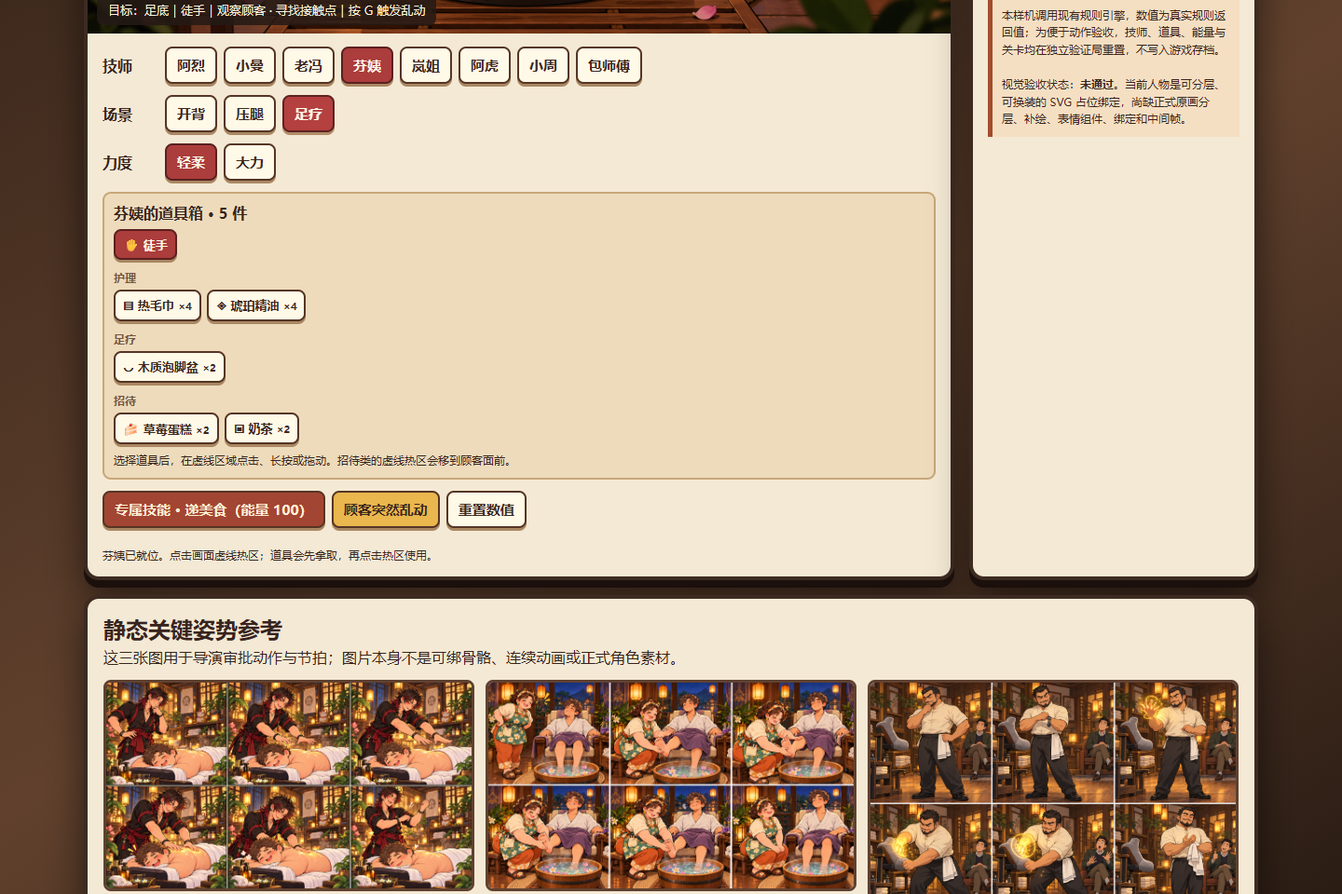
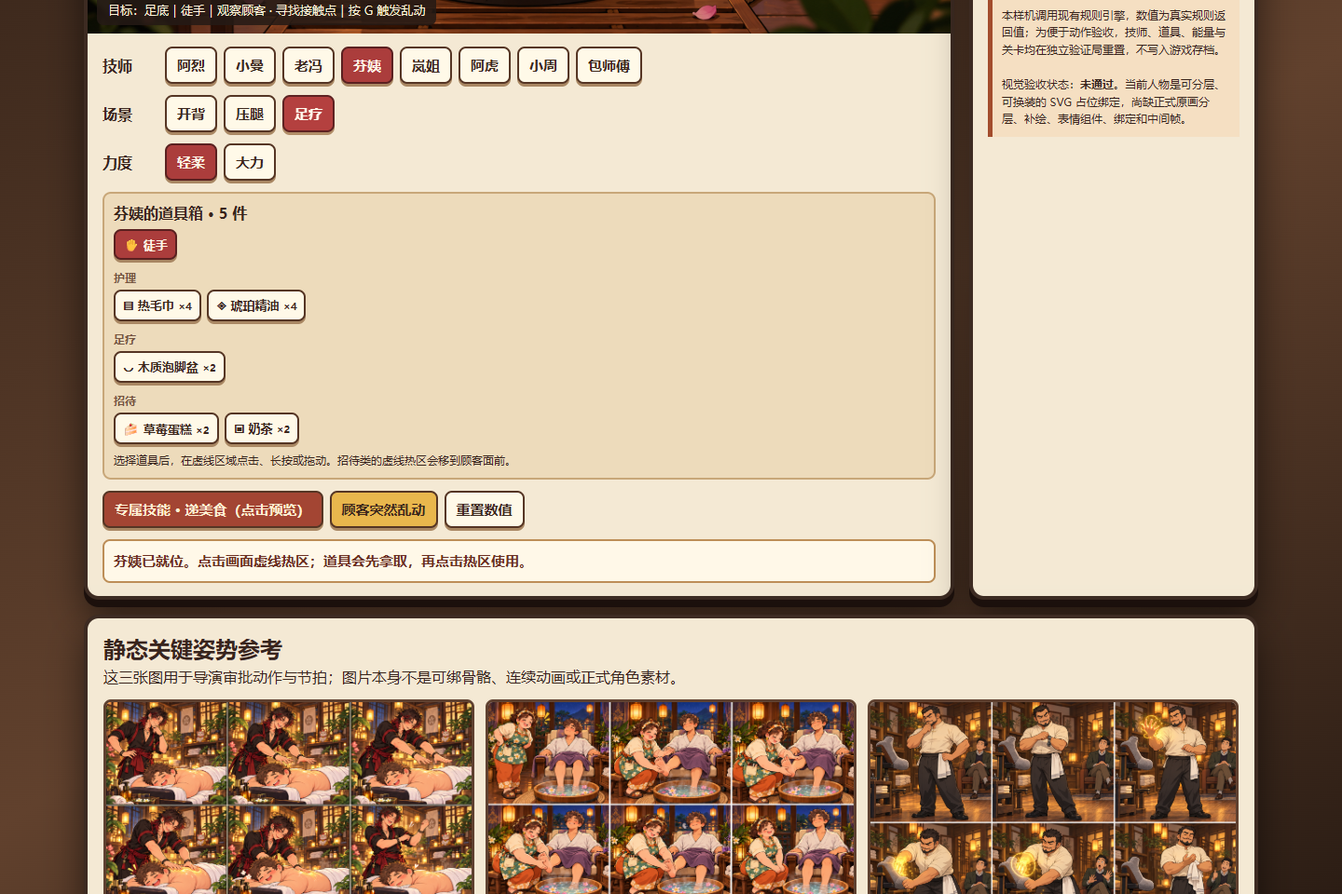
Make animation demo controls respond and queue preview actions

Changed region(s): [[0.0625, 0.5625, 0.9375, 1.0]]

diff --git a/animation-experience/animation-bundle.js b/animation-experience/animation-bundle.js
@@ -19,6 +19,7 @@ const labels = { comfort: '舒适', affection: '好感', patience: '耐心', com
 const levels = [{ level: 1, comfortGoal: 95, patience: 90, maxActions: 50, servicePool: ['gentle', 'strong', 'food', 'prank'], scenePool: ['back', 'legs', 'feet'] }];
 let cast = 'charming_m', scene = 'back', service = 'gentle', tool = 'hand', serial = 0;
 let battle, director, pointerId = null, last = performance.now(), latestPose = null;
+let queuedTool = null, queuedService = null, queuedSignature = false, toastTimer = null;
 
 function log(message) {
   const li = document.createElement('li');
@@ -26,7 +27,14 @@ function log(message) {
   $('#log').prepend(li);
   while ($('#log').children.length > 24) $('#log').lastElementChild.remove();
 }
-function feedback(message) { $('#feedback').textContent = message; }
+function feedback(message) {
+  $('#feedback').textContent = message;
+  const toast = $('#stageToast');
+  toast.textContent = message;
+  toast.classList.add('show');
+  clearTimeout(toastTimer);
+  toastTimer = setTimeout(() => toast.classList.remove('show'), 2800);
+}
 function point(event) {
   const rect = stage.getBoundingClientRect();
   return { x: (event.clientX - rect.left) * 960 / rect.width, y: (event.clientY - rect.top) * 540 / rect.height };
@@ -54,11 +62,12 @@ function updateMetrics() {
     el.querySelector('output').textContent = battle[key];
     el.querySelector('label').textContent = label;
   }
-  $('#signature').textContent = `专属技能 · ${skills[cast]}（能量 ${battle.energy}）`;
+  $('#signature').textContent = `专属技能 · ${skills[cast]}（点击预览）`;
 }
 function reset(clearLog = false) {
   if (pointerId !== null && stage.hasPointerCapture(pointerId)) stage.releasePointerCapture(pointerId);
   pointerId = null;
+  queuedTool = null; queuedService = null; queuedSignature = false;
   battle = beginBattle({ id: `animation-qa-${++serial}`, level: 1, therapistId: cast, guestId: 'foodie', scene, rareOffered: false }, levels);
   battle.energy = 100; // Director QA only; this never touches persistent progress.
   director = new InteractionDirector({ technicianId: cast, scene, onEvent: handleEvent, contactValidator: frame => {
@@ -75,6 +84,32 @@ function reset(clearLog = false) {
   log(`${names[cast]}进入${names[scene]}验证局；点击虚线区域开始。`);
   feedback(`${names[cast]}已就位。点击画面虚线热区；道具会先拿取，再点击热区使用。`);
   updateMetrics();
+}
+function chooseTool(id) {
+  if (id === 'hand' && !director.toolHeld && director.tool === 'hand') { feedback('已处于徒手模式；请点击画面虚线热区。'); return; }
+  if (id !== 'hand' && director.toolHeld) {
+    queuedTool = id;
+    director.selectTool('hand');
+    feedback(`正在放回${itemById[director.tool]?.name || '道具'}；随后自动拿取${itemById[id].name}。`);
+    return;
+  }
+  if (director.selectTool(id)) {
+    tool = director.tool;
+    selectGroup('tool', tool);
+    $('#toolTip').textContent = tool === 'hand' ? '徒手模式。' : `${itemById[tool].name}：${itemById[tool].gesture}；按提示虚线区域操作。`;
+    feedback(tool === 'hand' ? '已切换徒手；请点击画面虚线热区。' : `${itemById[tool].name}拿取中；接着点击画面虚线热区使用。`);
+  }
+}
+function activateSignature() {
+  if (battle.energy < 100) {
+    battle = { ...battle, energy: 100 };
+    updateMetrics();
+    log('导演验证模式：技能能量已补满。');
+  }
+  if (director.startSignature()) {
+    log(`${names[cast]}的${skills[cast]}进入准备、蓄力、出手三段。`);
+    feedback(`${skills[cast]}发动中。`);
+  }
 }
 function handleEvent(event) {
   switch (event.type) {
@@ -110,35 +145,43 @@ function handleEvent(event) {
 $('#metrics').innerHTML = Object.entries(labels).map(([key,label]) => `<div class="metric" data-key="${key}"><label>${label}</label><div class="track"><div class="fill"></div></div><output>0</output></div>`).join('');
 document.querySelectorAll('[data-group="cast"] button').forEach(button => button.addEventListener('click', () => { cast = button.dataset.id; selectGroup('cast', cast); reset(true); }));
 document.querySelectorAll('[data-group="scene"] button').forEach(button => button.addEventListener('click', () => { scene = button.dataset.id; selectGroup('scene', scene); reset(true); }));
-document.querySelectorAll('[data-group="service"] button').forEach(button => button.addEventListener('click', () => { if (director.setService(button.dataset.id)) { service = button.dataset.id; selectGroup('service', service); feedback(`力度已切换为${button.textContent}；在虚线热区操作。`); } else feedback('动作进行中，请等技师回位后再切换力度。'); }));
+document.querySelectorAll('[data-group="service"] button').forEach(button => button.addEventListener('click', () => {
+  service = button.dataset.id; selectGroup('service', service);
+  if (director.setService(service)) feedback(`力度已切换为${button.textContent}；在虚线热区操作。`);
+  else { queuedService = service; feedback(`已选择${button.textContent}，技师回位后自动生效。`); }
+}));
 $('#inventory').addEventListener('click', event => {
   const button = event.target.closest('button[data-id]');
   if (!button) return;
-  if (director.phase !== 'observe') { feedback('技师正在动作中，请等回位后再选择道具。'); return; }
-  if (button.dataset.id !== 'hand') {
-    const availability = itemAvailability(battle, button.dataset.id, 999);
-    if (!availability.ok) { const item = itemById[button.dataset.id]; feedback(`${item.name}暂不可用：${availability.reason}${availability.reason === '此场景不可用' ? `；请切换到${item.scenes.map(key => names[key]).join('或')}` : ''}。`); return; }
+  const id = button.dataset.id, item = itemById[id];
+  if (item && !item.scenes.includes(scene)) {
+    scene = item.scenes[0]; selectGroup('scene', scene); reset(true);
+    log(`${item.name}适用于${names[scene]}；已自动切换场景。`);
+  } else if (battle.status !== 'playing') reset(true);
+  if (id !== 'hand') {
+    const availability = itemAvailability(battle, id, 999);
+    if (!availability.ok) { feedback(`${item.name}暂不可用：${availability.reason}。点击“重置数值”可重新开始验证局。`); return; }
   }
-  if (director.selectTool(button.dataset.id)) {
-    tool = director.tool; selectGroup('tool', tool);
-    $('#toolTip').textContent = director.phase === 'toolReturn' ? `${itemById[tool].name}正在归位。` : tool === 'hand' ? '徒手模式。' : `${itemById[tool].name}：${itemById[tool].gesture}；按提示虚线区域操作。`;
-    feedback(tool === 'hand' ? '已选择徒手。' : `${itemById[tool].name}拿取中，稍后点击虚线热区使用。`);
-  } else feedback('当前不能切换道具，请等待动作结束。');
+  if (director.phase !== 'observe') { queuedTool = id; feedback(`已选${id === 'hand' ? '徒手' : item.name}，技师回位后自动切换。`); return; }
+  chooseTool(id);
 });
 $('#signature').addEventListener('click', () => {
-  if (battle.status !== 'playing') return feedback('本局已结束，请点击“重置数值”。');
-  if (director.phase !== 'observe') return feedback('技师正在动作中，请等回位后使用技能。');
-  if (director.toolHeld) return feedback('请先点击“徒手”，放回道具后再使用技能。');
-  if (cast === 'bao_master' && scene !== 'feet') return feedback('黄金右手只能在足疗场景使用。');
-  if (battle.energy < 100) return feedback(`能量不足：还需 ${100 - battle.energy} 点。`);
-  if (director.startSignature()) { log(`${names[cast]}的${skills[cast]}进入准备、蓄力、出手三段。`); feedback(`${skills[cast]}发动中。`); }
+  if (cast === 'bao_master' && scene !== 'feet') { scene = 'feet'; selectGroup('scene', scene); reset(true); log('黄金右手限定足疗；已自动切换足疗场景。'); }
+  else if (battle.status !== 'playing') reset(true);
+  if (director.phase !== 'observe' || director.toolHeld) {
+    queuedSignature = true; queuedTool = null;
+    if (director.phase === 'observe' && director.toolHeld) director.selectTool('hand');
+    feedback(`${skills[cast]}已排队；当前动作结束后自动发动。`);
+    return;
+  }
+  activateSignature();
 });
 $('#jolt').addEventListener('click', () => { if (director.interrupt('guest-jolt')) feedback('顾客突然乱动：技师闪避并重新观察。'); else feedback('技师已经在处理乱动，请稍候。'); });
 $('#reset').addEventListener('click', () => reset(true));
 document.addEventListener('keydown', event => { if (event.key.toLowerCase() === 'g') director.interrupt('guest-jolt'); });
 stage.addEventListener('pointerdown', event => {
   if (pointerId !== null) return;
-  if (battle.status !== 'playing') return feedback('本局已结束，请点击“重置数值”。');
+  if (battle.status !== 'playing') { reset(true); log('上一局已结束；导演验证局自动重开。'); }
   if (director.pointerDown(point(event))) { pointerId = event.pointerId; stage.setPointerCapture(pointerId); feedback('已锁定接触点，技师正在准备动作。'); event.preventDefault(); }
   else feedback(director.phase === 'observe' ? '请点击画面中的虚线热区；招待道具的热区在顾客面前。' : '动作尚未结束，请等技师回位后操作。');
 });
@@ -148,6 +191,14 @@ stage.addEventListener('pointercancel', event => { if (event.pointerId === point
 function tick(now) {
   const dt = Math.max(0, Math.min(.05, (now - last) / 1000)); last = now;
   director.update(dt);
+  if (director.phase === 'observe') {
+    if (queuedService) { director.setService(queuedService); queuedService = null; }
+    if (queuedSignature) {
+      if (director.toolHeld) director.selectTool('hand');
+      else { queuedSignature = false; activateSignature(); }
+    }
+    else if (queuedTool) { const next = queuedTool; queuedTool = null; chooseTool(next); }
+  }
   const frame = director.frame();
   latestPose = visual.render(frame, now / 1000);
   if (frame.contactActive && cast === 'bao_master' && scene === 'feet' && frame.signature) $('#hint').textContent = '黄金右手接触中：手掌位置、足底反馈和投诉数值同步';

diff --git a/animation-experience/main.js b/animation-experience/main.js
@@ -14,6 +14,7 @@ const labels = { comfort: '舒适', affection: '好感', patience: '耐心', com
 const levels = [{ level: 1, comfortGoal: 95, patience: 90, maxActions: 50, servicePool: ['gentle', 'strong', 'food', 'prank'], scenePool: ['back', 'legs', 'feet'] }];
 let cast = 'charming_m', scene = 'back', service = 'gentle', tool = 'hand', serial = 0;
 let battle, director, pointerId = null, last = performance.now(), latestPose = null;
+let queuedTool = null, queuedService = null, queuedSignature = false, toastTimer = null;
 
 function log(message) {
   const li = document.createElement('li');
@@ -21,7 +22,14 @@ function log(message) {
   $('#log').prepend(li);
   while ($('#log').children.length > 24) $('#log').lastElementChild.remove();
 }
-function feedback(message) { $('#feedback').textContent = message; }
+function feedback(message) {
+  $('#feedback').textContent = message;
+  const toast = $('#stageToast');
+  toast.textContent = message;
+  toast.classList.add('show');
+  clearTimeout(toastTimer);
+  toastTimer = setTimeout(() => toast.classList.remove('show'), 2800);
+}
 function point(event) {
   const rect = stage.getBoundingClientRect();
   return { x: (event.clientX - rect.left) * 960 / rect.width, y: (event.clientY - rect.top) * 540 / rect.height };
@@ -49,11 +57,12 @@ function updateMetrics() {
     el.querySelector('output').textContent = battle[key];
     el.querySelector('label').textContent = label;
   }
-  $('#signature').textContent = `专属技能 · ${skills[cast]}（能量 ${battle.energy}）`;
+  $('#signature').textContent = `专属技能 · ${skills[cast]}（点击预览）`;
 }
 function reset(clearLog = false) {
   if (pointerId !== null && stage.hasPointerCapture(pointerId)) stage.releasePointerCapture(pointerId);
   pointerId = null;
+  queuedTool = null; queuedService = null; queuedSignature = false;
   battle = beginBattle({ id: `animation-qa-${++serial}`, level: 1, therapistId: cast, guestId: 'foodie', scene, rareOffered: false }, levels);
   battle.energy = 100; // Director QA only; this never touches persistent progress.
   director = new InteractionDirector({ technicianId: cast, scene, onEvent: handleEvent, contactValidator: frame => {
@@ -70,6 +79,32 @@ function reset(clearLog = false) {
   log(`${names[cast]}进入${names[scene]}验证局；点击虚线区域开始。`);
   feedback(`${names[cast]}已就位。点击画面虚线热区；道具会先拿取，再点击热区使用。`);
   updateMetrics();
+}
+function chooseTool(id) {
+  if (id === 'hand' && !director.toolHeld && director.tool === 'hand') { feedback('已处于徒手模式；请点击画面虚线热区。'); return; }
+  if (id !== 'hand' && director.toolHeld) {
+    queuedTool = id;
+    director.selectTool('hand');
+    feedback(`正在放回${itemById[director.tool]?.name || '道具'}；随后自动拿取${itemById[id].name}。`);
+    return;
+  }
+  if (director.selectTool(id)) {
+    tool = director.tool;
+    selectGroup('tool', tool);
+    $('#toolTip').textContent = tool === 'hand' ? '徒手模式。' : `${itemById[tool].name}：${itemById[tool].gesture}；按提示虚线区域操作。`;
+    feedback(tool === 'hand' ? '已切换徒手；请点击画面虚线热区。' : `${itemById[tool].name}拿取中；接着点击画面虚线热区使用。`);
+  }
+}
+function activateSignature() {
+  if (battle.energy < 100) {
+    battle = { ...battle, energy: 100 };
+    updateMetrics();
+    log('导演验证模式：技能能量已补满。');
+  }
+  if (director.startSignature()) {
+    log(`${names[cast]}的${skills[cast]}进入准备、蓄力、出手三段。`);
+    feedback(`${skills[cast]}发动中。`);
+  }
 }
 function handleEvent(event) {
   switch (event.type) {
@@ -105,35 +140,43 @@ function handleEvent(event) {
 $('#metrics').innerHTML = Object.entries(labels).map(([key,label]) => `<div class="metric" data-key="${key}"><label>${label}</label><div class="track"><div class="fill"></div></div><output>0</output></div>`).join('');
 document.querySelectorAll('[data-group="cast"] button').forEach(button => button.addEventListener('click', () => { cast = button.dataset.id; selectGroup('cast', cast); reset(true); }));
 document.querySelectorAll('[data-group="scene"] button').forEach(button => button.addEventListener('click', () => { scene = button.dataset.id; selectGroup('scene', scene); reset(true); }));
-document.querySelectorAll('[data-group="service"] button').forEach(button => button.addEventListener('click', () => { if (director.setService(button.dataset.id)) { service = button.dataset.id; selectGroup('service', service); feedback(`力度已切换为${button.textContent}；在虚线热区操作。`); } else feedback('动作进行中，请等技师回位后再切换力度。'); }));
+document.querySelectorAll('[data-group="service"] button').forEach(button => button.addEventListener('click', () => {
+  service = button.dataset.id; selectGroup('service', service);
+  if (director.setService(service)) feedback(`力度已切换为${button.textContent}；在虚线热区操作。`);
+  else { queuedService = service; feedback(`已选择${button.textContent}，技师回位后自动生效。`); }
+}));
 $('#inventory').addEventListener('click', event => {
   const button = event.target.closest('button[data-id]');
   if (!button) return;
-  if (director.phase !== 'observe') { feedback('技师正在动作中，请等回位后再选择道具。'); return; }
-  if (button.dataset.id !== 'hand') {
-    const availability = itemAvailability(battle, button.dataset.id, 999);
-    if (!availability.ok) { const item = itemById[button.dataset.id]; feedback(`${item.name}暂不可用：${availability.reason}${availability.reason === '此场景不可用' ? `；请切换到${item.scenes.map(key => names[key]).join('或')}` : ''}。`); return; }
+  const id = button.dataset.id, item = itemById[id];
+  if (item && !item.scenes.includes(scene)) {
+    scene = item.scenes[0]; selectGroup('scene', scene); reset(true);
+    log(`${item.name}适用于${names[scene]}；已自动切换场景。`);
+  } else if (battle.status !== 'playing') reset(true);
+  if (id !== 'hand') {
+    const availability = itemAvailability(battle, id, 999);
+    if (!availability.ok) { feedback(`${item.name}暂不可用：${availability.reason}。点击“重置数值”可重新开始验证局。`); return; }
   }
-  if (director.selectTool(button.dataset.id)) {
-    tool = director.tool; selectGroup('tool', tool);
-    $('#toolTip').textContent = director.phase === 'toolReturn' ? `${itemById[tool].name}正在归位。` : tool === 'hand' ? '徒手模式。' : `${itemById[tool].name}：${itemById[tool].gesture}；按提示虚线区域操作。`;
-    feedback(tool === 'hand' ? '已选择徒手。' : `${itemById[tool].name}拿取中，稍后点击虚线热区使用。`);
-  } else feedback('当前不能切换道具，请等待动作结束。');
+  if (director.phase !== 'observe') { queuedTool = id; feedback(`已选${id === 'hand' ? '徒手' : item.name}，技师回位后自动切换。`); return; }
+  chooseTool(id);
 });
 $('#signature').addEventListener('click', () => {
-  if (battle.status !== 'playing') return feedback('本局已结束，请点击“重置数值”。');
-  if (director.phase !== 'observe') return feedback('技师正在动作中，请等回位后使用技能。');
-  if (director.toolHeld) return feedback('请先点击“徒手”，放回道具后再使用技能。');
-  if (cast === 'bao_master' && scene !== 'feet') return feedback('黄金右手只能在足疗场景使用。');
-  if (battle.energy < 100) return feedback(`能量不足：还需 ${100 - battle.energy} 点。`);
-  if (director.startSignature()) { log(`${names[cast]}的${skills[cast]}进入准备、蓄力、出手三段。`); feedback(`${skills[cast]}发动中。`); }
+  if (cast === 'bao_master' && scene !== 'feet') { scene = 'feet'; selectGroup('scene', scene); reset(true); log('黄金右手限定足疗；已自动切换足疗场景。'); }
+  else if (battle.status !== 'playing') reset(true);
+  if (director.phase !== 'observe' || director.toolHeld) {
+    queuedSignature = true; queuedTool = null;
+    if (director.phase === 'observe' && director.toolHeld) director.selectTool('hand');
+    feedback(`${skills[cast]}已排队；当前动作结束后自动发动。`);
+    return;
+  }
+  activateSignature();
 });
 $('#jolt').addEventListener('click', () => { if (director.interrupt('guest-jolt')) feedback('顾客突然乱动：技师闪避并重新观察。'); else feedback('技师已经在处理乱动，请稍候。'); });
 $('#reset').addEventListener('click', () => reset(true));
 document.addEventListener('keydown', event => { if (event.key.toLowerCase() === 'g') director.interrupt('guest-jolt'); });
 stage.addEventListener('pointerdown', event => {
   if (pointerId !== null) return;
-  if (battle.status !== 'playing') return feedback('本局已结束，请点击“重置数值”。');
+  if (battle.status !== 'playing') { reset(true); log('上一局已结束；导演验证局自动重开。'); }
   if (director.pointerDown(point(event))) { pointerId = event.pointerId; stage.setPointerCapture(pointerId); feedback('已锁定接触点，技师正在准备动作。'); event.preventDefault(); }
   else feedback(director.phase === 'observe' ? '请点击画面中的虚线热区；招待道具的热区在顾客面前。' : '动作尚未结束，请等技师回位后操作。');
 });
@@ -143,6 +186,14 @@ stage.addEventListener('pointercancel', event => { if (event.pointerId === point
 function tick(now) {
   const dt = Math.max(0, Math.min(.05, (now - last) / 1000)); last = now;
   director.update(dt);
+  if (director.phase === 'observe') {
+    if (queuedService) { director.setService(queuedService); queuedService = null; }
+    if (queuedSignature) {
+      if (director.toolHeld) director.selectTool('hand');
+      else { queuedSignature = false; activateSignature(); }
+    }
+    else if (queuedTool) { const next = queuedTool; queuedTool = null; chooseTool(next); }
+  }
   const frame = director.frame();
   latestPose = visual.render(frame, now / 1000);
   if (frame.contactActive && cast === 'bao_master' && scene === 'feet' && frame.signature) $('#hint').textContent = '黄金右手接触中：手掌位置、足底反馈和投诉数值同步';

diff --git a/animation-experience/index.html b/animation-experience/index.html
@@ -5,13 +5,13 @@
   <title>Massage Mayhem｜动画体验导演样机</title>
   <style>
     :root{font-family:"Microsoft YaHei",sans-serif;color:#38241c;background:#211712}*{box-sizing:border-box}body{margin:0;background:linear-gradient(150deg,#241811,#61412d 60%,#241811);min-height:100vh}header,main{max-width:1300px;margin:auto}header{padding:24px 20px 14px;color:#fff1d0}h1{font-size:clamp(26px,4vw,40px);margin:0}.sub{margin:8px 0;color:#e2caa4;line-height:1.6}main{display:grid;grid-template-columns:minmax(0,1fr) 310px;gap:16px;padding:0 20px 28px}.card{background:#f4e9d4;border:4px solid #3d2b22;box-shadow:0 8px 0 #1c100c,0 20px 38px #0008;border-radius:16px;overflow:hidden}.stagebar{display:flex;justify-content:space-between;align-items:center;padding:12px 16px;background:#ecd4ab;font-weight:800}.badge{color:#8a292c;font-size:13px}.stagewrap{background:#241914;position:relative}svg{width:100%;height:auto;display:block;touch-action:none;cursor:crosshair;user-select:none}.hint{position:absolute;left:10px;bottom:9px;background:#241915dc;color:#fff4da;padding:8px 12px;border-radius:7px;font-size:13px;pointer-events:none}.controls{padding:14px 16px;display:grid;gap:12px}.group{display:flex;gap:7px;align-items:center;flex-wrap:wrap}.group b{min-width:60px}button{font:700 15px "Microsoft YaHei",sans-serif;border:2px solid #553524;border-radius:8px;background:#fff9e8;color:#3c271c;padding:8px 11px;cursor:pointer;box-shadow:0 3px 0 #a98763}button:hover{filter:brightness(1.05)}button:active{transform:translateY(2px);box-shadow:0 1px 0 #a98763}button.active{background:#ab3d3c;color:#fff6e6;border-color:#5a2020}button:disabled{opacity:.45;cursor:not-allowed}button.action{background:#e9b74d}button.gold{background:#a34533;color:#fff1d4}.side{padding:16px}.side h2{font-size:20px;margin:0 0 12px}.metric{display:grid;grid-template-columns:66px 1fr 40px;gap:6px;align-items:center;margin:10px 0;font-size:13px;font-weight:800}.track{background:#d9c7ad;height:13px;border-radius:10px;overflow:hidden;border:1px solid #987f65}.fill{height:100%;width:0;transition:width .3s;background:#78b453}.metric[data-key=affection] .fill{background:#df7795}.metric[data-key=patience] .fill{background:#71aed1}.metric[data-key=complaint] .fill{background:#d75751}.metric[data-key=energy] .fill{background:#d9aa38}.phase{font-weight:800;background:#fff9e9;border:2px solid #bba180;border-radius:8px;padding:9px;margin:16px 0}.log{height:260px;overflow:auto;padding:0;margin:0;list-style:none;font-size:13px;line-height:1.45}.log li{border-bottom:1px solid #d8c2a1;padding:7px 2px}.warning{background:#f5dfc2;border-left:5px solid #a34d2d;padding:10px;margin-top:12px;font-size:12px;line-height:1.55}.boards{grid-column:1/-1;padding:17px}.boards h2{margin:0 0 4px}.boards p{margin:0 0 14px}.boardgrid{display:grid;grid-template-columns:repeat(3,1fr);gap:12px}.boardgrid figure{margin:0}.boardgrid img{width:100%;border:3px solid #5f4130;border-radius:8px}.boardgrid figcaption{font-size:12px;line-height:1.5}@media(max-width:900px){main{grid-template-columns:1fr}.boardgrid{grid-template-columns:1fr}}
-    .inventory{display:block;background:#eddbbb;border:2px solid #c8a779;border-radius:9px;padding:10px}.inventory h3{margin:0 0 7px;font-size:16px}.propgroup{margin-top:7px}.propgroup strong{font-size:12px;color:#76543f}.propgrid{display:flex;flex-wrap:wrap;gap:6px;margin-top:4px}.propgrid button{font-size:13px;padding:6px 8px}.propgrid button.offscene{background:#dbcfc0;color:#796c62}.propnote{font-size:12px;line-height:1.5;margin:8px 0 0}
+    .inventory{display:block;background:#eddbbb;border:2px solid #c8a779;border-radius:9px;padding:10px}.inventory h3{margin:0 0 7px;font-size:16px}.propgroup{margin-top:7px}.propgroup strong{font-size:12px;color:#76543f}.propgrid{display:flex;flex-wrap:wrap;gap:6px;margin-top:4px}.propgrid button{font-size:13px;padding:6px 8px}.propgrid button.offscene{background:#dbcfc0;color:#796c62}.propnote{font-size:12px;line-height:1.5;margin:8px 0 0}#feedback{font-size:15px;font-weight:800;color:#6b2e21;background:#fff8e8;border:2px solid #bd8e57;border-radius:8px;padding:10px;margin:0}#stageToast{position:absolute;left:50%;top:12px;transform:translateX(-50%);max-width:88%;padding:8px 13px;border:2px solid #f5cc7b;border-radius:8px;background:#2e1b17e8;color:#fff5df;font-weight:800;text-align:center;pointer-events:none;opacity:0;transition:opacity .15s}#stageToast.show{opacity:1}
   </style>
 </head>
 <body>
 <header><h1>Massage Mayhem｜全技师交互样机</h1><p class="sub">8 名技师可切换 · 点击、长按、拖动、松开、道具与打断均可操作；正式角色分层美术仍待制作</p></header>
 <main>
-  <section class="card"><div class="stagebar"><span id="castTitle">阿烈 · 开背</span><span class="badge">分层 SVG 试制 · 正式美术待制作</span></div><div class="stagewrap"><svg id="stage" viewBox="0 0 960 540" aria-label="按摩互动场景"></svg><div class="hint" id="hint">在虚线热区点击或按住并拖动；按 G 模拟顾客乱动</div></div>
+  <section class="card"><div class="stagebar"><span id="castTitle">阿烈 · 开背</span><span class="badge">分层 SVG 试制 · 正式美术待制作</span></div><div class="stagewrap"><svg id="stage" viewBox="0 0 960 540" aria-label="按摩互动场景"></svg><div id="stageToast"></div><div class="hint" id="hint">在虚线热区点击或按住并拖动；按 G 模拟顾客乱动</div></div>
   <div class="controls">
     <div class="group" data-group="cast"><b>技师</b><button data-id="charming_m" class="active">阿烈</button><button data-id="charming_f">小曼</button><button data-id="uncle">老冯</button><button data-id="aunt">芬姨</button><button data-id="gentle">岚姐</button><button data-id="power">阿虎</button><button data-id="joker">小周</button><button data-id="bao_master">包师傅</button></div>
     <div class="group" data-group="scene"><b>场景</b><button data-id="back" class="active">开背</button><button data-id="legs">压腿</button><button data-id="feet">足疗</button></div>

diff --git a/animation-experience/README.md b/animation-experience/README.md
@@ -6,9 +6,10 @@
 
 1. 入场短步结束后，在虚线热区点击：准备 → 接触前 → 接触 → 顾客响应 → 收手，只结算一次。
 2. 按住并在热区拖动：左右手 IK 跟随，躯干补位；顾客身体和脸在接触时响应。松开立即停止持续反馈，随后收手。
-3. 选择道具：八名技师均有各自的试制道具箱；包师傅有前期美术清单的完整 19 件，另补用户压腿参考图中的按摩霜，共 20 件。选中后先拿取、握持，再到虚线热区操作，最后归位；想提前放回可按“徒手”。足疗专用道具需切到足疗，开背专用道具需切到开背。不可用道具仍可点击查看原因。食品的虚线热区会移动到顾客面前。
+3. 选择道具：八名技师均有各自的试制道具箱；包师傅有前期美术清单的完整 19 件，另补用户压腿参考图中的按摩霜，共 20 件。点击不属于当前场景的道具会自动切到适用场景并拿取；动作进行中选择会排队。拿取后还需在虚线热区点击或拖动才能实际使用，最后道具归位。想提前放回可按“徒手”。食品的虚线热区会移动到顾客面前。库存或冷却造成的不可用状态会明确提示。
 4. 点击“顾客突然乱动”或按 `G`：接触前取消结算，接触后撤手与顾客惊讶同步；拖出热区外围也会打断。
-5. 专属技能：八名技师均可触发技能事件与规则结算；包师傅仅在足疗使用黄金右手。能量预设为 100 只为导演测试；芬姨递美食使用 `performService`，其他技师使用 `useSkill`。技能按钮会说明场景、能量或动作阶段限制。
+5. 专属技能：八名技师均可触发技能事件与规则结算；点击包师傅黄金右手会自动切至足疗。独立导演验证局会在重复预览时自动补满技能能量，动作进行中点击会排队；这不会改变正式游戏的能量规则或存档。芬姨递美食使用 `performService`，其他技师使用 `useSkill`。
+6. 验证局达到胜利或失败终局后，再点击场景热区、道具或技能会自动开启下一次独立验证；右侧事件日志会重新开始。正式游戏仍按原规则结算。
 
 ## 架构与边界
 
